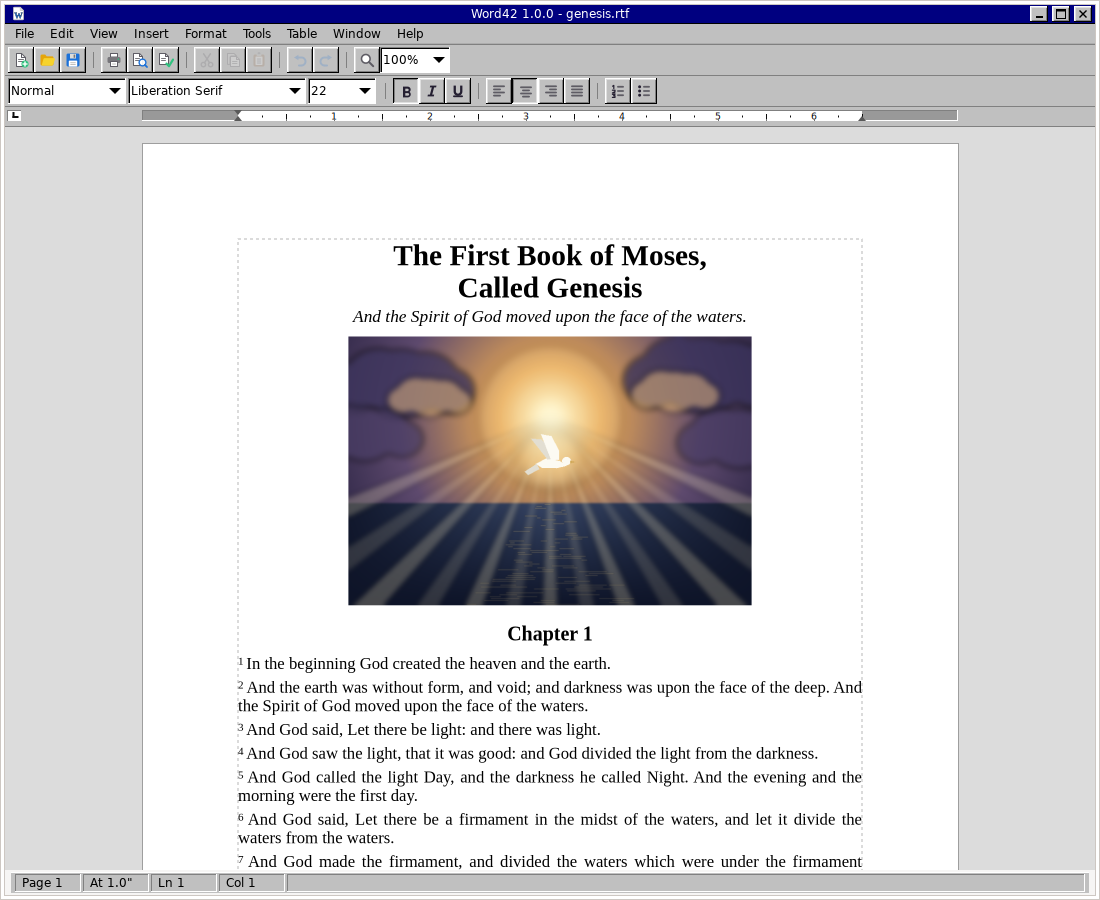
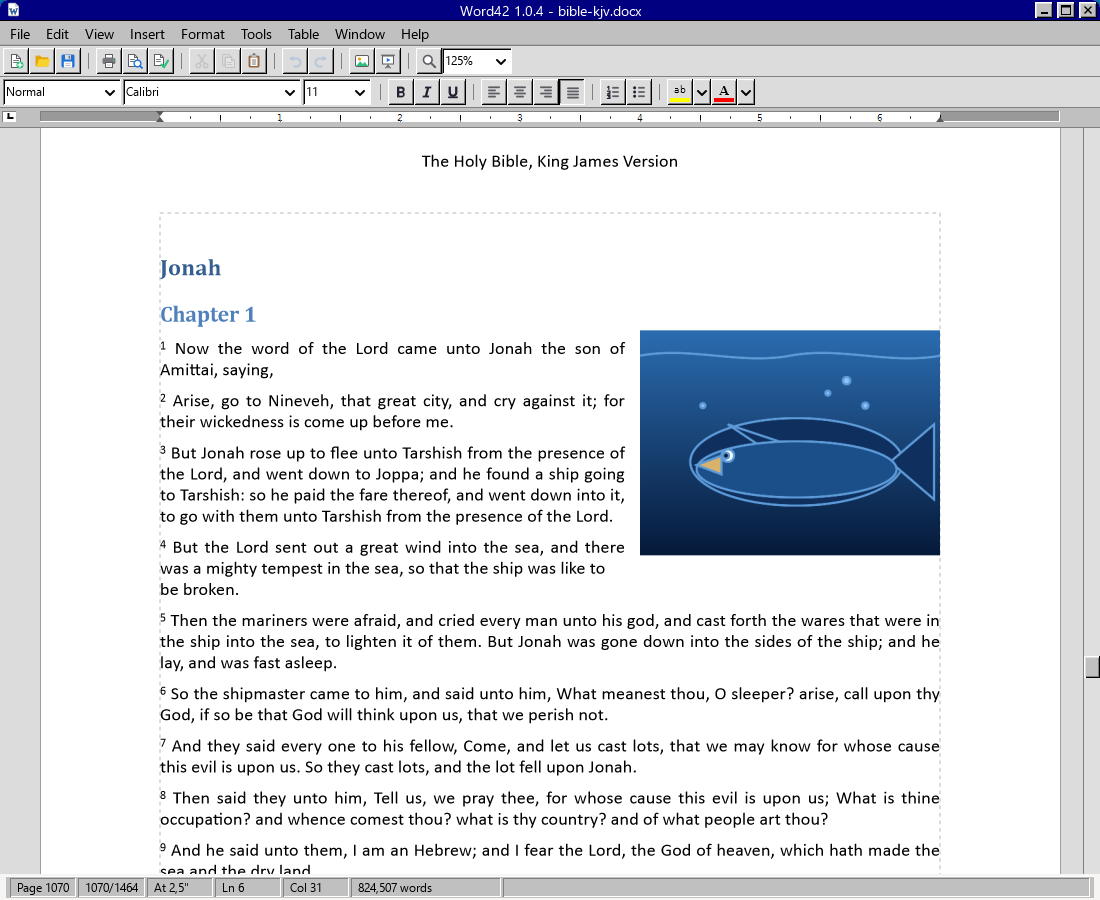
Bring the site up to 1.0.4, and announce LaTeX mode
The features now name the .doc default, WordPerfect files, Make It Fit,
page numbers from any page, the writer's tools, the languages and the
LaTeX mode coming in 1.0.5. The screenshot is the README's 1.0.4 one, and
the logo says 1.0.4.

diff --git a/index.html b/index.html
@@ -99,10 +99,13 @@
           <a class="btn btn-w42 btn-lg mr-2 mb-2" href="#download">Download</a>
           <a class="btn btn-outline-w42 btn-lg mb-2" href="https://github.com/office-42/word42">View on GitHub</a>
         </p>
+        <p class="small text-muted mt-3 mb-0"><strong>New in 1.0.4:</strong> Word 97 <code>.doc</code> as the
+        default format, WordPerfect files, Make It Fit and page numbers from any page.
+        <strong>Coming in 1.0.5:</strong> LaTeX mode, for PDFs that look like a thesis.</p>
       </div>
       <div class="col-lg-6">
         <img src="images/screenshot.png" width="1100" height="900" class="img-fluid screenshot"
-             alt="Word42 in Page Layout view: the opening of Genesis set as justified verses with superscript numbers under a centred title and a picture of light breaking over the waters, a dove descending">
+             alt="Word42 1.0.4 in Page Layout view: the Book of Jonah from the King James Bible, its first verses set with superscript numbers under a blue heading beside a picture of a great fish in deep water">
         <p class="text-muted small text-center mt-2 mb-0"><em>Word42 in Page Layout view.</em></p>
       </div>
     </div>
@@ -135,17 +138,20 @@
       <div class="col-md-6 col-lg-4 mb-4">
         <h3 class="h5 font-serif font-weight-bold">Page layout</h3>
         <ul class="mb-0">
-          <li>Headers, footers and page numbers</li>
+          <li>Headers, footers, and page numbers that begin on any page</li>
           <li>Footnotes and endnotes</li>
           <li>Tables with merged cells, pictures</li>
+          <li>Make It Fit — shrink or stretch to a page count</li>
           <li>Page-layout view and print preview</li>
         </ul>
       </div>
       <div class="col-md-6 col-lg-4 mb-4">
         <h3 class="h5 font-serif font-weight-bold">Tools</h3>
         <ul class="mb-0">
-          <li>Spelling and hyphenation</li>
+          <li>Spelling, thesaurus and hyphenation</li>
           <li>Mail merge, envelopes and labels</li>
+          <li>Macros in a dialect of VBA</li>
+          <li>Compare Documents and a Document Map</li>
           <li>Table of contents and an index</li>
           <li>Templates, AutoText and AutoFormat</li>
         </ul>
@@ -153,10 +159,11 @@
       <div class="col-md-6 col-lg-4 mb-4">
         <h3 class="h5 font-serif font-weight-bold">File formats</h3>
         <ul class="mb-0">
+          <li>Word 97 <code>.doc</code> — the default — and <code>.docx</code></li>
           <li>RTF and OpenDocument <code>.odt</code></li>
-          <li>Word <code>.docx</code> and <code>.doc</code></li>
-          <li>AbiWord <code>.abw</code></li>
-          <li>HTML, PDF and plain text</li>
+          <li>WordPerfect <code>.wpd</code>, 5.x and 6 onwards</li>
+          <li>AbiWord <code>.abw</code>, HTML, PDF and plain text</li>
+          <li>EPUB e-books and LaTeX <code>.tex</code> out</li>
         </ul>
       </div>
       <div class="col-md-6 col-lg-4 mb-4">
@@ -168,12 +175,41 @@
           <li>The user guide travels inside the program — press F1</li>
         </ul>
       </div>
+      <div class="col-md-6 col-lg-4 mb-4">
+        <h3 class="h5 font-serif font-weight-bold">For writers</h3>
+        <ul class="mb-0">
+          <li>Quotation marks and dialogue dashes set the way the language does</li>
+          <li>A word-count goal in the status bar</li>
+          <li>A Novel template and typewriter scrolling</li>
+          <li>EPUB export, and <code>word42 --convert-to=pdf|epub|odt</code></li>
+        </ul>
+      </div>
+      <div class="col-md-6 col-lg-4 mb-4">
+        <h3 class="h5 font-serif font-weight-bold">LaTeX mode <span class="badge badge-secondary align-middle">1.0.5</span></h3>
+        <ul class="mb-0">
+          <li>PDFs typeset by LaTeX, in the Latin Modern of papers and theses</li>
+          <li>Knuth's line breaking, ligatures, microtype and hyphenation</li>
+          <li>Headings, notes, lists, tables and pictures carried over</li>
+          <li>Uses Tectonic, MiKTeX or TeX Live, whichever is installed</li>
+        </ul>
+      </div>
+      <div class="col-md-6 col-lg-4 mb-4">
+        <h3 class="h5 font-serif font-weight-bold">In your language</h3>
+        <ul class="mb-0">
+          <li>Menus and dialogs in the ten most spoken languages in the world</li>
+          <li>Chinese, Hindi, Spanish, Arabic, French, Bengali, Portuguese, Russian, Urdu</li>
+          <li>Arabic and Urdu laid out from the right</li>
+          <li>Spelling and hyphenation follow the document's language</li>
+        </ul>
+      </div>
     </div>
     <p class="mb-0">The <a href="https://github.com/office-42/word42/blob/main/docs/GUIDE.md">user guide</a>
     describes every command in the program; the
     <a href="https://github.com/office-42/word42/blob/main/docs/STATUS.md">status page</a> and
     <a href="https://github.com/office-42/word42/blob/main/docs/ARCHITECTURE.md">architecture notes</a>
-    tell the rest.</p>
+    tell the rest, and the
+    <a href="https://github.com/office-42/word42/blob/main/Changelog.md">changelog</a> says what
+    each release brought.</p>
   </div>
 </section>
 
